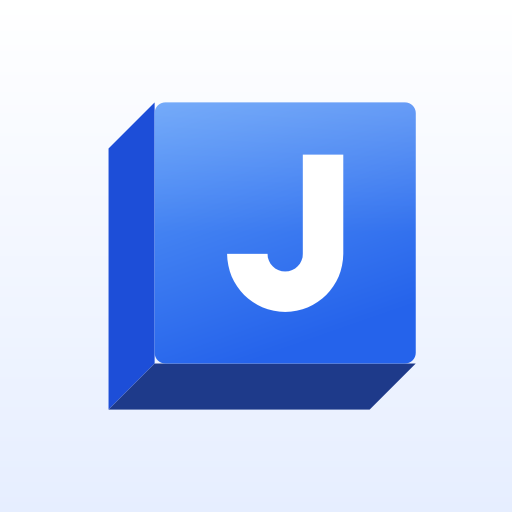
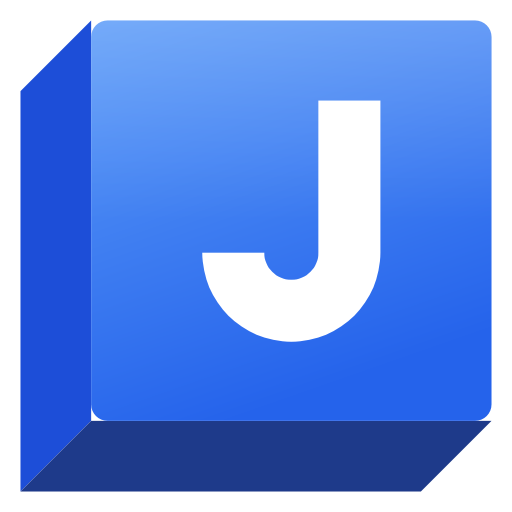
JASAN Móvil 1.1: Salidas de la PC, compartir, día/noche, ícono nuevo
Claude-Session: https://claude.ai/code/session_01RaE3hFVt43V1YDrx663mVP

diff --git a/app.js b/app.js
@@ -5,7 +5,7 @@
      clave   = sha256("jasan-movil-k|"+t) → AES-256-GCM; blob = nonce12 | cifrado | tag16
      rutas   movil/<caja>/pedidos/<id>.bin · resultados/<id>.bin · pc.bin · anulado            */
 "use strict";
-const VERSION = "1.0 (JASAN 2.39.0)";
+const VERSION = "1.1 (JASAN 2.39.1)";
 const BUCKET = "jasan", TOPE_MB = 15, VIVO_SEG = 90;
 const $ = (q, el = document) => el.querySelector(q);
 const $$ = (q, el = document) => [...el.querySelectorAll(q)];
@@ -65,11 +65,11 @@ async function cifrar(obj) {
   const ct = new Uint8Array(await crypto.subtle.encrypt({ name: "AES-GCM", iv }, KEY, enc.encode(JSON.stringify(obj))));
   const out = new Uint8Array(12 + ct.length); out.set(iv); out.set(ct, 12); return out;
 }
-async function descifrar(buf) {
+async function descifrarBytes(buf) {
   const u = new Uint8Array(buf); if (u.length < 28) throw new Error("incompleto");
-  const pt = await crypto.subtle.decrypt({ name: "AES-GCM", iv: u.subarray(0, 12) }, KEY, u.subarray(12));
-  return JSON.parse(dec.decode(pt));
+  return new Uint8Array(await crypto.subtle.decrypt({ name: "AES-GCM", iv: u.subarray(0, 12) }, KEY, u.subarray(12)));
 }
+async function descifrar(buf) { return JSON.parse(dec.decode(await descifrarBytes(buf))); }
 
 // ---------------------------------------------------------------- nube (Supabase Storage con la clave pública)
 const Nube = {
@@ -104,14 +104,21 @@ const ruta = (sub = "") => `movil/${CAJA}` + (sub ? "/" + sub : "");
 // ---------------------------------------------------------------- resultados guardados en el celular (IndexedDB)
 const DB = {
   db: null,
-  abrir() { return this.db || (this.db = new Promise((ok, mal) => { const r = indexedDB.open("jasan-movil", 1);
-    r.onupgradeneeded = () => r.result.createObjectStore("res", { keyPath: "id" }); r.onsuccess = () => ok(r.result); r.onerror = () => mal(r.error); })); },
-  async tx(modo, fn) { const db = await this.abrir(); return new Promise((ok, mal) => { const t = db.transaction("res", modo), s = t.objectStore("res");
+  abrir() { return this.db || (this.db = new Promise((ok, mal) => { const r = indexedDB.open("jasan-movil", 2);
+    r.onupgradeneeded = () => { const db = r.result;
+      if (!db.objectStoreNames.contains("res")) db.createObjectStore("res", { keyPath: "id" });
+      if (!db.objectStoreNames.contains("arch")) db.createObjectStore("arch", { keyPath: "id" }); };
+    r.onsuccess = () => ok(r.result); r.onerror = () => mal(r.error); })); },
+  async tx(modo, fn, tienda = "res") { const db = await this.abrir(); return new Promise((ok, mal) => { const t = db.transaction(tienda, modo), s = t.objectStore(tienda);
     const r = fn(s); t.oncomplete = () => ok(r && r.result); t.onerror = () => mal(t.error); }); },
   todos() { return this.tx("readonly", s => s.getAll()).then(x => x || []).catch(() => []); },
   poner(o) { return this.tx("readwrite", s => s.put(o)).catch(() => {}); },
   quitar(id) { return this.tx("readwrite", s => s.delete(id)).catch(() => {}); },
-  vaciar() { return this.tx("readwrite", s => s.clear()).catch(() => {}); }
+  vaciar() { return Promise.all([this.tx("readwrite", s => s.clear()), this.tx("readwrite", s => s.clear(), "arch")]).catch(() => {}); },
+  arch(id) { return this.tx("readonly", s => s.get(id), "arch").catch(() => null); },
+  guardarArch(o) { return this.tx("readwrite", s => s.put(o), "arch").catch(() => {}); },
+  archivos() { return this.tx("readonly", s => s.getAll(), "arch").then(x => x || []).catch(() => []); },
+  quitarArch(id) { return this.tx("readwrite", s => s.delete(id), "arch").catch(() => {}); }
 };
 
 // ---------------------------------------------------------------- pantalla
@@ -285,6 +292,7 @@ function vigilar(rapido) {
   const paso = async () => {
     const n = await traerResultados();
     if (n) { UI.toast(n === 1 ? "Llegó un resultado" : `Llegaron ${n} resultados`); try { navigator.vibrate && navigator.vibrate(30); } catch {} }
+    if (!document.hidden) await traerSalidas();
     await pintarBadge(); if (UI.actual === "resultados") pintarResultados();
     const pend = (await DB.todos()).some(x => x.estado === "espera" || x.estado === "trabajando");
     vigilando = setTimeout(paso, pend ? 6000 : 30000);
@@ -292,12 +300,14 @@ function vigilar(rapido) {
   vigilando = setTimeout(paso, rapido ? 2500 : 0);
 }
 async function pintarBadge() {
-  const n = (await DB.todos()).filter(x => x.nuevo).length;
+  const n = (await DB.todos()).filter(x => x.nuevo).length + salNuevas();
   $("#badge").textContent = n; $("#badge").classList.toggle("hide", !n);
 }
 const ESTADO = { listo: "Listo", observado: "Observado", error: "No se hizo", espera: "Enviado", trabajando: "Tu PC lo hace" };
 function clase(nombre) { const e = nombre.split(".").pop().toLowerCase();
-  return e === "pdf" ? ["pdf", "PDF"] : e === "docx" ? ["doc", "DOCX"] : e === "txt" ? ["txt", "TXT"] : ["", "XLSX"]; }
+  if (e === "pdf") return ["pdf", "PDF"]; if (e === "docx" || e === "doc") return ["doc", e.toUpperCase()];
+  if (["txt", "csv", "zip", "jpg", "jpeg", "png", "pptx"].includes(e)) return ["txt", e.toUpperCase().slice(0, 4)];
+  return ["", e.toUpperCase().slice(0, 4)]; }
 async function pintarResultados() {
   const lista = (await DB.todos()).sort((a, b) => String(b.pedido || "").localeCompare(String(a.pedido || "")));
   const cont = $("#l-res"); cont.innerHTML = "";
@@ -318,32 +328,134 @@ async function pintarResultados() {
       const [c, t] = clase(a.nombre); const f = document.createElement("div"); f.className = "file"; f.style.boxShadow = "none"; f.style.background = "var(--card2)";
       f.innerHTML = `<i class="xl ${c}">${t}</i><div class="tx"><b>${esc(a.nombre)}</b><span>${tam(a.tam || a.b64.length * .75)}</span></div>
         <button class="link" aria-label="Guardar"><svg width="22" height="22"><use href="#${navigator.canShare ? "i-share" : "i-down"}"/></svg></button>`;
-      f.onclick = () => bajar(r, i);
+      f.onclick = () => acciones([archivoDe(a)]);
       fl.appendChild(f);
     });
+    const pie = document.createElement("div"); pie.style.cssText = "display:flex;justify-content:space-between;align-items:center;margin-top:6px";
     if (!esperando || r.estado === "espera") {
-      const q = document.createElement("button"); q.className = "link"; q.style.cssText = "color:var(--sub);font-size:13px;margin-top:6px";
-      q.textContent = r.estado === "espera" ? "Cancelar envío" : "Quitar"; q.onclick = () => quitar(r); el.appendChild(q);
+      const q = document.createElement("button"); q.className = "link"; q.style.cssText = "color:var(--sub);font-size:13px";
+      q.textContent = r.estado === "espera" ? "Cancelar envío" : "Quitar"; q.onclick = () => quitar(r); pie.appendChild(q);
     }
+    if ((r.archivos || []).length > 1) {
+      const c = document.createElement("button"); c.className = "link compartir-todo"; c.style.cssText = "display:flex;align-items:center;gap:5px;font-size:14px";
+      c.innerHTML = `<svg width="17" height="17"><use href="#i-share"/></svg>Compartir todos (${r.archivos.length})`;
+      c.onclick = () => acciones(r.archivos.map(archivoDe)); pie.appendChild(c);
+    }
+    el.appendChild(pie);
     cont.appendChild(el);
   }
   if (lista.some(x => x.nuevo)) { for (const x of lista) if (x.nuevo) { x.nuevo = false; await DB.poner(x); } setTimeout(pintarBadge, 400); }
 }
 const MIME = { xlsx: "application/vnd.openxmlformats-officedocument.spreadsheetml.sheet", pdf: "application/pdf",
-  docx: "application/vnd.openxmlformats-officedocument.wordprocessingml.document", txt: "text/plain" };
-async function bajar(r, i) {
-  const a = r.archivos[i], ext = a.nombre.split(".").pop().toLowerCase();
-  const file = new File([b64Dec(a.b64)], a.nombre, { type: MIME[ext] || "application/octet-stream" });
-  if (navigator.canShare && navigator.canShare({ files: [file] })) {
-    try { await navigator.share({ files: [file], title: a.nombre }); return; } catch (e) { if (e.name === "AbortError") return; }
-  }
-  const url = URL.createObjectURL(file), el = document.createElement("a");
-  el.href = url; el.download = a.nombre; document.body.appendChild(el); el.click(); el.remove();
-  setTimeout(() => URL.revokeObjectURL(url), 30000);
+  docx: "application/vnd.openxmlformats-officedocument.wordprocessingml.document", txt: "text/plain",
+  xlsm: "application/vnd.ms-excel.sheet.macroEnabled.12", xls: "application/vnd.ms-excel", doc: "application/msword", csv: "text/csv",
+  pptx: "application/vnd.openxmlformats-officedocument.presentationml.presentation", zip: "application/zip", jpg: "image/jpeg", jpeg: "image/jpeg", png: "image/png" };
+const hacerArchivo = (datos, nombre) => new File([datos], nombre, { type: MIME[nombre.split(".").pop().toLowerCase()] || "application/octet-stream" });
+const archivoDe = a => hacerArchivo(b64Dec(a.b64), a.nombre);
+const puedeCompartir = files => { try { return !!(navigator.canShare && navigator.canShare({ files })); } catch { return false; } };
+/* Hoja con «Compartir» (WhatsApp, correo, Drive… del propio celular) y «Guardar en el celular».
+   Los archivos ya están listos en el celular: el toque en el botón abre el menú de compartir al instante. */
+function acciones(files) {
+  const uno = files.length === 1, comp = puedeCompartir(files);
+  UI.hoja({ icono: "i-share", color: "#25A244", titulo: uno ? files[0].name : `${files.length} archivos`,
+    texto: comp ? "Envíalo por WhatsApp, correo o Drive, o guárdalo en el celular." : "Guárdalo en el celular para enviarlo luego.",
+    botones: [...(comp ? [{ t: uno ? "Compartir" : `Compartir los ${files.length}`, fn: () => compartir(files) }] : []),
+      { t: uno ? "Guardar en el celular" : "Guardar todos en el celular", clase: comp ? "gray" : "", fn: () => guardar(files) },
+      { t: "Cancelar", clase: "gray" }] });
+}
+async function compartir(files) {
+  try { await navigator.share({ files, title: files.length === 1 ? files[0].name : "JASAN" }); }
+  catch (e) { if (e.name !== "AbortError") { UI.toast("No se pudo compartir; se guardan en el celular"); guardar(files); } }
+}
+function guardar(files) {
+  files.forEach((file, i) => setTimeout(() => {
+    const url = URL.createObjectURL(file), el = document.createElement("a");
+    el.href = url; el.download = file.name; document.body.appendChild(el); el.click(); el.remove();
+    setTimeout(() => URL.revokeObjectURL(url), 30000);
+  }, i * 400));
 }
 async function quitar(r) {
   if (r.estado === "espera") { try { await Nube.remove([ruta(`pedidos/${r.id}.bin`)]); } catch {} }
   await DB.quitar(r.id); pintarResultados(); pintarBadge();
+}
+
+// ---------------------------------------------------------------- salidas de la PC (7 días en la nube)
+let SAL = [], salTraido = false, panelRes = "cel";
+const leerLS = (k, d = "") => { try { return localStorage.getItem(k) ?? d; } catch { return d; } };
+const ponerLS = (k, v) => { try { localStorage.setItem(k, v); } catch {} };
+function salNuevas() { const v = leerLS("jasan.salvisto"); return SAL.filter(x => (x.subido || "") > v).length; }
+async function traerSalidas() {
+  if (!vin) return;
+  try { const b = await Nube.get(ruta("salidas.bin")); SAL = b ? ((await descifrar(b)).archivos || []) : []; salTraido = true; } catch {}
+  const vivos = new Set(SAL.map(x => x.id));                 // lo que la PC ya borró, también sale del celular
+  for (const a of await DB.archivos()) if (!vivos.has(a.id) && salTraido) await DB.quitarArch(a.id);
+  $("#dot-pc").classList.toggle("hide", !salNuevas());
+}
+$$("#seg-res button").forEach(b => b.onclick = () => verPanel(b.dataset.s));
+function verPanel(p) {
+  panelRes = p;
+  $$("#seg-res button").forEach(b => b.classList.toggle("on", b.dataset.s === p));
+  $("#p-cel").classList.toggle("hide", p !== "cel"); $("#p-pc").classList.toggle("hide", p !== "pc");
+  if (p === "pc") { pintarSalidas(); traerSalidas().then(pintarSalidas); }
+}
+async function pintarSalidas() {
+  const cont = $("#l-sal"), guard = new Set((await DB.archivos()).map(a => a.id));
+  if (!SAL.length) {
+    cont.innerHTML = `<div class="empty"><svg><use href="#i-pc"/></svg><b>${salTraido ? "Nada en los últimos 7 días" : "Cargando…"}</b>${salTraido ? "Lo que generes en JASAN de tu computadora aparecerá aquí." : ""}</div>`;
+    return;
+  }
+  const lista = [...SAL].sort((a, b) => String(b.fecha).localeCompare(String(a.fecha)));
+  const visto = leerLS("jasan.salvisto");
+  cont.innerHTML = "";
+  let dia = "", grupo = null;
+  for (const a of lista) {
+    const d = new Date(a.fecha), k = d.toDateString();
+    if (k !== dia) {
+      dia = k; const hoy = new Date().toDateString(), ayer = new Date(Date.now() - 864e5).toDateString();
+      const t = document.createElement("div"); t.className = "dia";
+      t.textContent = k === hoy ? "Hoy" : k === ayer ? "Ayer" : d.toLocaleDateString("es-PE", { weekday: "long", day: "numeric", month: "long" });
+      const del = lista.filter(x => new Date(x.fecha).toDateString() === k);
+      t.style.cssText = "display:flex;justify-content:space-between;align-items:center";
+      t.innerHTML = `<span>${t.textContent}</span>` + (del.length > 1 ? `<button class="link compartir-todo" style="text-transform:none;font-size:13.5px;display:flex;align-items:center;gap:4px"><svg width="15" height="15"><use href="#i-share"/></svg>Compartir todos (${del.length})</button>` : "");
+      const bt = t.querySelector("button"); if (bt) bt.onclick = () => salidasLote(del, bt);
+      cont.appendChild(t); grupo = document.createElement("div"); grupo.className = "list"; cont.appendChild(grupo);
+    }
+    const [c, t] = clase(a.nombre), b = document.createElement("button"); b.className = "sal";
+    const nuevo = (a.subido || "") > visto;
+    b.innerHTML = `<i class="xl ${c}" style="width:36px;height:44px;border-radius:7px;font-size:10.5px;font-weight:700;color:#fff;display:grid;place-items:center;flex:none;font-style:normal;background:${{ pdf: "#D93025", doc: "#2B579A", txt: "#6E6E73" }[c] || "#1D7044"}">${t}</i>
+      <span class="tx"><b>${esc(a.nombre)}</b><span>${nuevo ? '<b style="display:inline;color:var(--blue);font-size:12.5px">Nuevo · </b>' : ""}${esc(a.carpeta || "SALIDAS")} · ${tam(a.tam)} · ${d.toLocaleTimeString("es-PE", { hour: "2-digit", minute: "2-digit" })}</span></span>
+      <svg width="22" height="22" class="${guard.has(a.id) ? "ok" : ""}" style="flex:none;color:${guard.has(a.id) ? "var(--green)" : "var(--blue)"}"><use href="#${guard.has(a.id) ? "i-check" : "i-down"}"/></svg>`;
+    b.onclick = () => bajarSalida(a, b);
+    grupo.appendChild(b);
+  }
+  const ult = lista.reduce((m, x) => (x.subido || "") > m ? x.subido : m, "");
+  if (ult > visto) { ponerLS("jasan.salvisto", ult); setTimeout(() => { $("#dot-pc").classList.add("hide"); pintarBadge(); }, 600); }
+}
+async function datosSalida(a) {
+  const o = await DB.arch(a.id); if (o && o.datos) return o.datos;
+  const b = await Nube.get(ruta(`salidas/${a.id}.bin`));
+  if (!b) return null;
+  const datos = await descifrarBytes(b);
+  if (datos.length < 8 * 1048576) await DB.guardarArch({ id: a.id, datos, nombre: a.nombre, subido: a.subido });
+  return datos;
+}
+const ruedita = '<i class="spin mini" style="flex:none;border-color:rgba(37,99,235,.25);border-top-color:var(--blue);width:20px;height:20px"></i>';
+async function bajarSalida(a, fila) {
+  const ic = fila.querySelector("svg:last-child"); if (ic) ic.outerHTML = ruedita;
+  try {
+    const datos = await datosSalida(a);
+    if (!datos) { UI.toast("Ese archivo ya no está en la nube"); return traerSalidas().then(pintarSalidas); }
+    await pintarSalidas(); acciones([hacerArchivo(datos, a.nombre)]);
+  } catch { UI.toast(navigator.onLine ? "No se pudo bajar. Intenta otra vez" : "Sin internet"); pintarSalidas(); }
+}
+async function salidasLote(lista, bt) {
+  bt.innerHTML = ruedita + "Preparando…";
+  try {
+    const files = [];
+    for (const a of lista) { const d = await datosSalida(a); if (d) files.push(hacerArchivo(d, a.nombre)); }
+    await pintarSalidas();
+    if (files.length) acciones(files); else UI.toast("Ya no están en la nube");
+  } catch { UI.toast(navigator.onLine ? "No se pudo bajar. Intenta otra vez" : "Sin internet"); pintarSalidas(); }
 }
 
 // ---------------------------------------------------------------- ajustes
@@ -367,6 +479,21 @@ async function desvinculado() {
   UI.ver("vincular", { tab: false });
   UI.hoja({ icono: "i-lock", color: "#E5484D", titulo: "Este celular fue desvinculado", texto: "Se quitó desde JASAN en la computadora. Escanea otra vez tu QR para vincularlo." });
 }
+
+// ---------------------------------------------------------------- día / noche
+const Tema = {
+  modo() { try { return localStorage.getItem("jasan.tema") || "auto"; } catch { return "auto"; } },
+  aplicar(m = this.modo()) {
+    const oscuro = m === "dark" || (m === "auto" && matchMedia("(prefers-color-scheme: dark)").matches);
+    document.documentElement.setAttribute("data-theme", oscuro ? "dark" : "light");
+    const mc = $("#m-color"); if (mc) mc.setAttribute("content", oscuro ? "#000000" : "#F2F2F7");
+    $$("#tema button").forEach(b => b.classList.toggle("on", b.dataset.t === m));
+  },
+  poner(m) { try { localStorage.setItem("jasan.tema", m); } catch {} this.aplicar(m); }
+};
+$$("#tema button").forEach(b => b.onclick = () => Tema.poner(b.dataset.t));
+matchMedia("(prefers-color-scheme: dark)").addEventListener?.("change", () => Tema.aplicar());
+Tema.aplicar();
 
 // ---------------------------------------------------------------- instalar
 let promptInstalar = null;
@@ -402,6 +529,7 @@ $("#b-pegar").onclick = async () => {
   V.guardar(v); await preparar(v); entrar();
 };
 
+let recargando = false;
 async function iniciar() {
   pintarActividades(); prepararCuadro();
   const t0 = Date.now();
@@ -409,7 +537,17 @@ async function iniciar() {
   let v = V.leer();
   if (delEnlace && (!v || v.t !== delEnlace.t)) { v = delEnlace; V.guardar(v); }
   if (v) await preparar(v);
-  if ("serviceWorker" in navigator) navigator.serviceWorker.register("sw.js").catch(() => {});
+  if ("serviceWorker" in navigator) {
+    const habia = !!navigator.serviceWorker.controller;
+    navigator.serviceWorker.register("sw.js").then(reg => {
+      document.addEventListener("visibilitychange", () => { if (!document.hidden) reg.update().catch(() => {}); });
+    }).catch(() => {});
+    navigator.serviceWorker.addEventListener("controllerchange", () => {      // llegó una versión nueva: se recarga sola
+      if (!habia || recargando) return; recargando = true;
+      try { sessionStorage.setItem("jasan.actualizado", "1"); } catch {}
+      location.reload();
+    });
+  }
   const espera = Math.max(0, 1900 - (Date.now() - t0));
   setTimeout(() => {
     $("#splash").classList.add("out");
@@ -417,6 +555,8 @@ async function iniciar() {
     if (!v) UI.ver("vincular", { tab: false });
     else if (delEnlace && !standalone() && !seguir) pantallaInstalar();
     else entrar();
+    let act = false; try { act = sessionStorage.getItem("jasan.actualizado") === "1"; sessionStorage.removeItem("jasan.actualizado"); } catch {}
+    if (act) setTimeout(() => UI.toast(`JASAN Móvil se actualizó · ${VERSION.split(" ")[0]}`, 3200), 600);
   }, espera);
 }
 if (!window.crypto || !crypto.subtle) {

diff --git a/index.html b/index.html
@@ -5,8 +5,12 @@
 <meta name="viewport" content="width=device-width, initial-scale=1, viewport-fit=cover, maximum-scale=1">
 <title>JASAN Móvil</title>
 <meta name="description" content="JASAN en tu celular: envías el pedido y tu computadora con JASAN lo hace.">
-<meta name="theme-color" content="#F2F2F7" media="(prefers-color-scheme: light)">
-<meta name="theme-color" content="#000000" media="(prefers-color-scheme: dark)">
+<meta name="theme-color" content="#F2F2F7" id="m-color">
+<script>/* Día / Noche / Automático: se aplica antes de pintar (sin parpadeo) */
+(function(){var m="auto";try{m=localStorage.getItem("jasan.tema")||"auto"}catch(e){}
+var d=m==="dark"||(m==="auto"&&matchMedia("(prefers-color-scheme: dark)").matches);
+document.documentElement.setAttribute("data-theme",d?"dark":"light");
+document.getElementById("m-color").setAttribute("content",d?"#000000":"#F2F2F7");})();</script>
 <meta name="apple-mobile-web-app-capable" content="yes">
 <meta name="mobile-web-app-capable" content="yes">
 <meta name="apple-mobile-web-app-title" content="JASAN">
@@ -25,11 +29,11 @@
   --r:16px; --font:-apple-system,BlinkMacSystemFont,"SF Pro Text","SF Pro Display","Segoe UI",Roboto,"Helvetica Neue",Arial,sans-serif;
   --safeT:env(safe-area-inset-top,0px); --safeB:env(safe-area-inset-bottom,0px);
 }
-@media (prefers-color-scheme: dark){
-  :root{--bg:#000; --card:#1C1C1E; --card2:#2C2C2E; --text:#F5F5F7; --sub:#98989F; --sep:rgba(84,84,88,.45);
+:root{color-scheme:light}
+:root[data-theme=dark]{color-scheme:dark;
+  --bg:#000; --card:#1C1C1E; --card2:#2C2C2E; --text:#F5F5F7; --sub:#98989F; --sep:rgba(84,84,88,.45);
     --blue:#4C8DFF; --blueSoft:rgba(76,141,255,.16); --bar:rgba(18,18,20,.78); --shadow:none;
     --greenSoft:rgba(48,209,88,.16); --green:#30D158; --orangeSoft:rgba(255,159,10,.16); --redSoft:rgba(255,69,58,.16)}
-}
 *{box-sizing:border-box;-webkit-tap-highlight-color:transparent}
 html,body{margin:0;height:100%;background:var(--bg);color:var(--text);font-family:var(--font);-webkit-font-smoothing:antialiased;
   font-size:17px;line-height:1.35;overscroll-behavior-y:none}
@@ -40,7 +44,7 @@ button{cursor:pointer;border:0;background:none;padding:0}
 /* ------------------------------------------------ splash */
 #splash{position:fixed;inset:0;z-index:50;display:flex;flex-direction:column;align-items:center;justify-content:center;
   background:radial-gradient(120% 80% at 50% 40%,#FFFFFF 0%,#EEF3FF 55%,#E3EBFF 100%);transition:opacity .55s ease,visibility .55s}
-@media (prefers-color-scheme: dark){#splash{background:radial-gradient(120% 80% at 50% 40%,#101a33 0%,#070b16 60%,#000 100%)}}
+[data-theme=dark] #splash{background:radial-gradient(120% 80% at 50% 40%,#101a33 0%,#070b16 60%,#000 100%)}
 #splash.out{opacity:0;visibility:hidden}
 .mk{width:118px;height:118px;filter:drop-shadow(0 18px 30px rgba(37,99,235,.35))}
 .mk .side,.mk .base{transform-origin:58% 42%;animation:extrude .7s cubic-bezier(.2,.8,.2,1) .15s both}
@@ -123,7 +127,7 @@ button.row:active{background:var(--card2)}
 .sw{position:relative;width:51px;height:31px;flex:none}
 .sw input{opacity:0;position:absolute;inset:0;margin:0;z-index:1}
 .sw i{position:absolute;inset:0;border-radius:99px;background:#E9E9EA;transition:background .25s}
-@media (prefers-color-scheme: dark){.sw i{background:#39393D}}
+[data-theme=dark] .sw i{background:#39393D}
 .sw i::after{content:"";position:absolute;top:2px;left:2px;width:27px;height:27px;border-radius:50%;background:#fff;
   box-shadow:0 3px 8px rgba(0,0,0,.15),0 1px 1px rgba(0,0,0,.16);transition:transform .25s cubic-bezier(.3,1.3,.5,1)}
 .sw input:checked+i{background:#34C759}.sw input:checked+i::after{transform:translateX(20px)}
@@ -200,6 +204,18 @@ button.row:active{background:var(--card2)}
 .steps .row .n{counter-increment:s;width:28px;height:28px;border-radius:50%;background:var(--blueSoft);color:var(--blue);font-weight:700;font-size:14px;display:grid;place-items:center;flex:none;font-style:normal}
 .steps .row .n::before{content:counter(s)}
 .ios-share{display:inline-block;vertical-align:-3px;width:17px;height:17px;color:var(--blue)}
+.seg{display:flex;background:var(--card2);border-radius:9px;padding:2px;gap:2px}
+.seg button{flex:1;height:32px;border-radius:7px;font-size:14px;font-weight:500;color:var(--text);transition:background .2s,box-shadow .2s}
+.seg button.on{background:var(--card);box-shadow:0 1px 3px rgba(0,0,0,.12),0 1px 1px rgba(0,0,0,.04);font-weight:600}
+[data-theme=dark] .seg button.on{background:#636366}
+.seg .dot{display:inline-block;width:7px;height:7px;border-radius:50%;background:var(--red);margin-left:6px;vertical-align:2px}
+.dia{margin:18px 4px 8px;font-size:13px;font-weight:600;color:var(--sub);text-transform:capitalize}
+.sal{display:flex;align-items:center;gap:12px;padding:10px 14px;min-height:62px;width:100%;text-align:left;position:relative}
+.sal+.sal::before{content:"";position:absolute;top:0;left:64px;right:0;height:.5px;background:var(--sep)}
+.sal:active{background:var(--card2)}
+.sal .tx{flex:1;min-width:0}.sal .tx b{display:-webkit-box;-webkit-line-clamp:2;-webkit-box-orient:vertical;overflow:hidden;font-size:14.5px;font-weight:500;line-height:1.25;word-break:break-word}
+.sal .tx span{display:block;font-size:12.5px;color:var(--sub);margin-top:2px;white-space:nowrap;overflow:hidden;text-overflow:ellipsis}
+.sal .ok{color:var(--green)}
 .who{display:flex;align-items:center;gap:12px}
 .av{width:44px;height:44px;border-radius:50%;background:linear-gradient(135deg,#5B9BF8,#1E3A8A);color:#fff;display:grid;place-items:center;font-weight:600;flex:none}
 </style>
@@ -363,8 +379,9 @@ button.row:active{background:var(--card2)}
 <section class="view" id="v-resultados">
   <div class="top"><div class="rt" style="min-width:70px"></div><div class="ttl">Resultados</div><div class="rt"></div></div>
   <h1 class="big">Resultados</h1>
-  <p class="lead">Lo que tu PC terminó. También queda una copia en SALIDAS de tu computadora.</p>
-  <div id="l-res"></div>
+  <div class="seg" id="seg-res" style="margin:4px 0 14px"><button data-s="cel" class="on">Del celular</button><button data-s="pc">Salidas de la PC<span class="dot hide" id="dot-pc"></span></button></div>
+  <div id="p-cel"><p class="lead">Lo que pediste desde el celular. También queda copia en SALIDAS de tu computadora.</p><div id="l-res"></div></div>
+  <div id="p-pc" class="hide"><p class="lead">Lo que hiciste en tu computadora. Se puede bajar durante 7 días; luego JASAN lo borra de la nube.</p><div id="l-sal"></div></div>
 </section>
 
 <!-- ======================= AJUSTES ======================= -->
@@ -373,6 +390,11 @@ button.row:active{background:var(--card2)}
   <h1 class="big">Ajustes</h1>
   <div class="list" style="margin-top:12px"><div class="row"><div class="who"><span class="av" id="a-ini">J</span>
     <div class="tx"><b id="a-nom" style="font-size:17px"></b><span id="a-rol"></span></div></div></div></div>
+  <div class="sec">Apariencia</div>
+  <div class="list"><div class="row" style="display:block">
+    <div class="seg" id="tema"><button data-t="auto">Automático</button><button data-t="light">Día</button><button data-t="dark">Noche</button></div>
+  </div></div>
+  <p class="foot">Automático sigue el modo del celular.</p>
   <div class="sec">Este celular</div>
   <div class="list plain">
     <div class="row"><div class="tx"><b>Computadora</b></div><span class="tag" id="a-pc">—</span></div>
@@ -381,7 +403,7 @@ button.row:active{background:var(--card2)}
   </div>
   <div class="sec">Seguridad</div>
   <div class="list plain">
-    <div class="row"><div class="tx"><b>Cifrado de extremo a extremo</b><span>Tus archivos viajan cerrados con la clave de este celular. Se borran de la nube al descargarlos (o a los 7 días).</span></div></div>
+    <div class="row"><div class="tx"><b>Cifrado de extremo a extremo</b><span>Tus archivos viajan cerrados con la clave de este celular. Lo pedido desde el celular se borra de la nube al recibirlo; las Salidas de tu PC, a los 7 días.</span></div></div>
   </div>
   <div style="margin-top:22px"><button class="btn gray" id="b-borrar">Borrar resultados del celular</button></div>
   <div style="margin-top:10px"><button class="btn red" id="b-desv">Desvincular este celular</button></div>

diff --git a/sw.js b/sw.js
@@ -1,12 +1,12 @@
 /* JASAN Móvil · guarda la app para que abra al toque; los datos (nube) nunca se guardan aquí. */
-const CACHE = "jasan-movil-v1";
-const APP = ["./", "index.html", "app.js", "manifest.webmanifest", "icons/icon-192.png", "icons/apple-touch-icon.png"];
+const CACHE = "jasan-movil-v2";              // cambiar en cada versión: así el celular se actualiza solo
+const APP = ["./", "index.html", "app.js", "manifest.webmanifest", "icons/icon-192.png", "icons/maskable-192.png", "icons/apple-touch-icon.png"];
 self.addEventListener("install", e => { e.waitUntil(caches.open(CACHE).then(c => c.addAll(APP)).then(() => self.skipWaiting())); });
 self.addEventListener("activate", e => { e.waitUntil(caches.keys().then(ks => Promise.all(ks.filter(k => k !== CACHE).map(k => caches.delete(k))))
   .then(() => self.clients.claim())); });
 self.addEventListener("fetch", e => {
   const u = new URL(e.request.url);
   if (e.request.method !== "GET" || u.origin !== location.origin) return;      // la nube va directo, sin caché
-  e.respondWith(fetch(e.request).then(r => { const c = r.clone(); caches.open(CACHE).then(k => k.put(e.request, c)); return r; })
+  e.respondWith(fetch(e.request, { cache: "no-cache" }).then(r => { const c = r.clone(); caches.open(CACHE).then(k => k.put(e.request, c)); return r; })
     .catch(() => caches.match(e.request, { ignoreSearch: true }).then(r => r || caches.match("index.html"))));
 });
